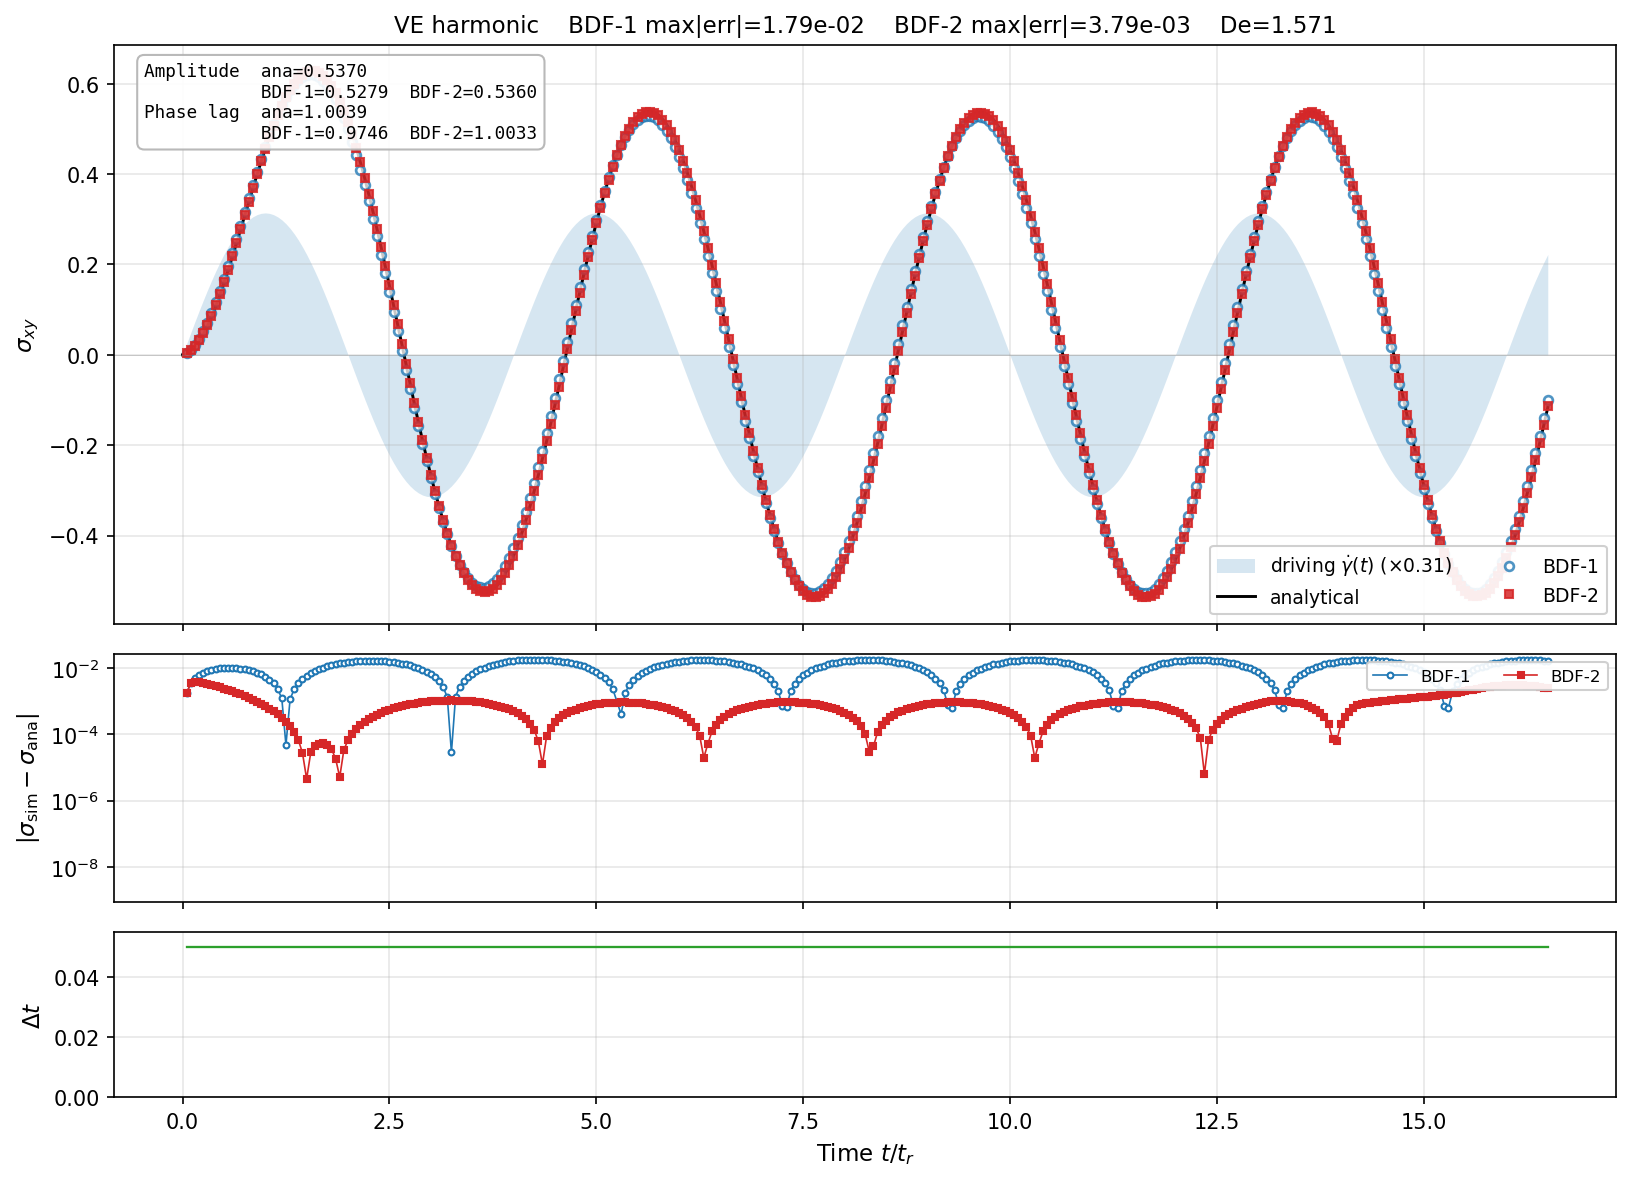
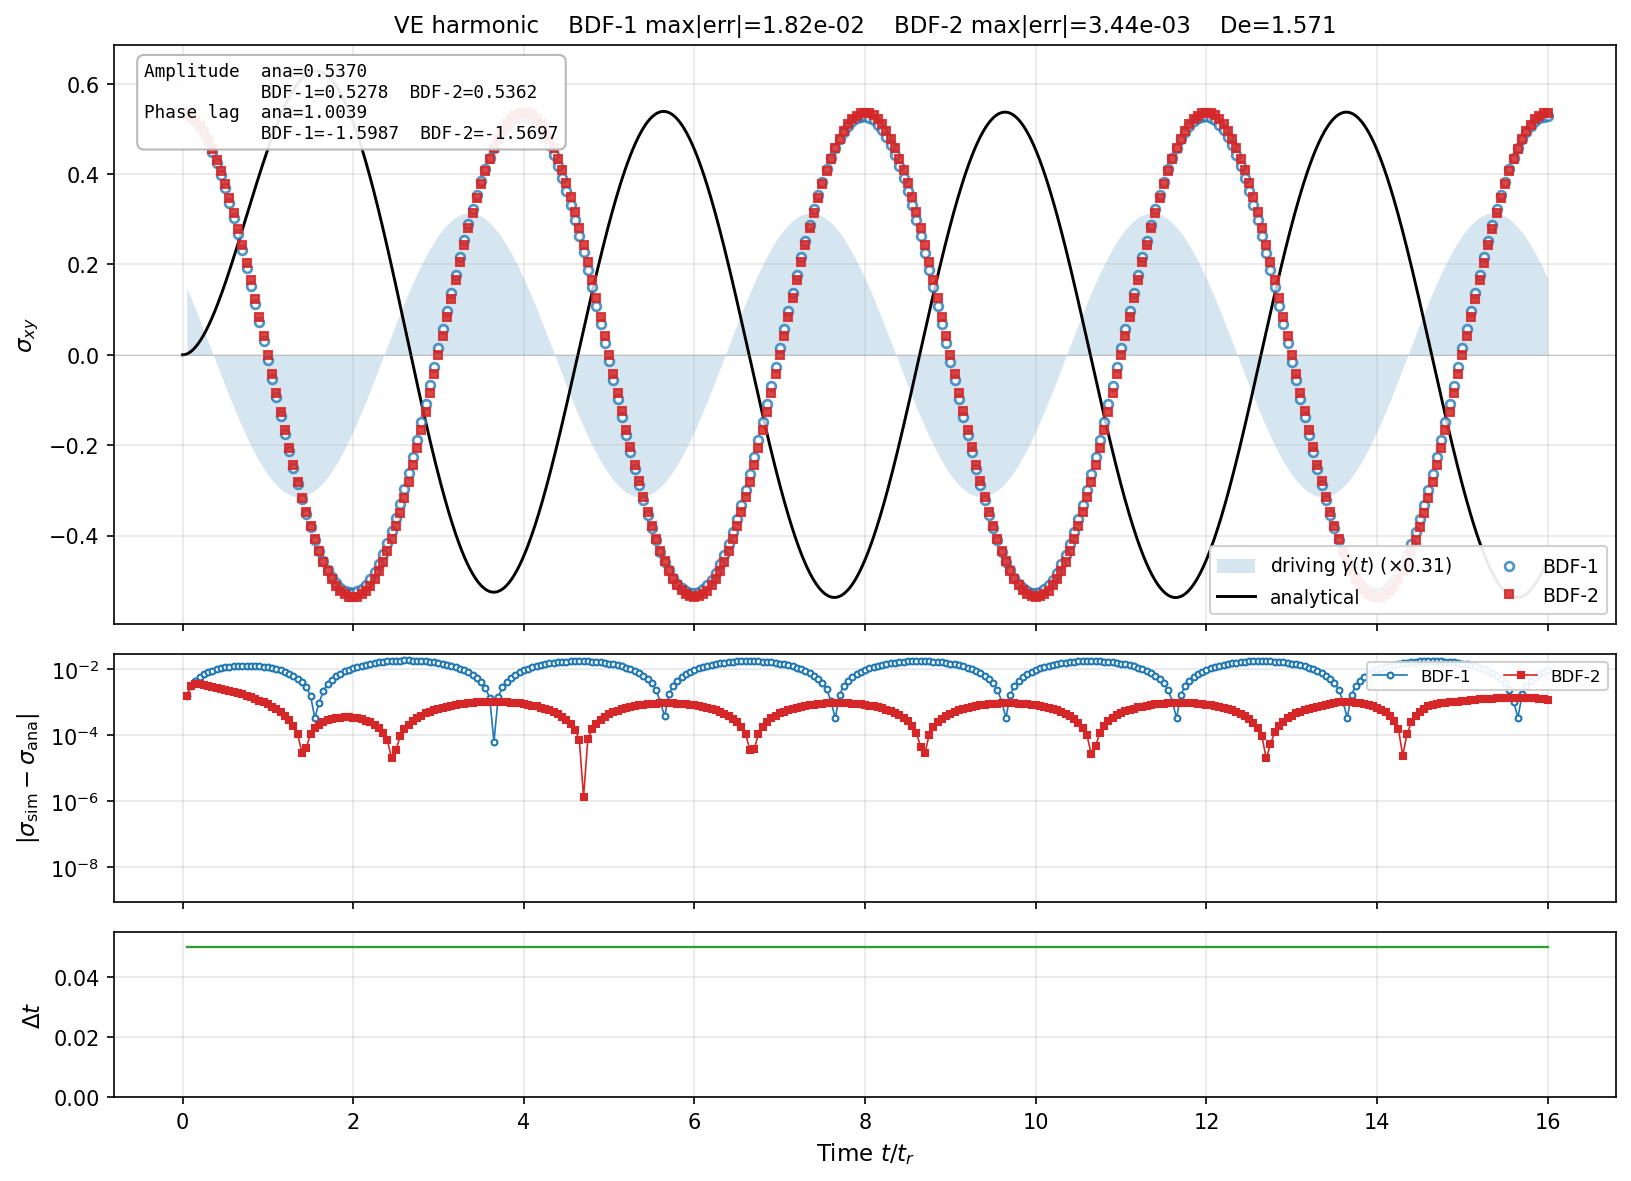
Harmonic benchmark: peak-start initial condition (no startup transient)
Initial-value problems are difficult to benchmark when the initial
guess produces a phase error.  Switch the harmonic benchmark to start
at a point in the steady-state cycle where σ̇ = 0 — the peak — so the
initial condition is consistent with the analytical and the simulation
runs on the steady cycle from the very first step.

Concretely:
  - BC: V_top(t) = V_0·cos(ωt + φ) instead of V_0·sin(ωt).
    With phase offset φ = arctan(De), the steady-state response is
    σ_ss(t) = A_∞·cos(ωt) — peak at t=0, zero gradient.
  - Initial ψ*[0] = ψ*[1] = A_∞ uniform on the shear component (set
    via .array; .data writes don't reliably sync to lvec for SYM_TENSOR
    by-component writes).
  - DDt._history_initialised = True before first solve, so the
    auto-init doesn't reset ψ*[0] back to the constitutive law's t=0
    evaluation.
  - Analytical: σ_ana(t) = A_∞·cos(ωt) (no transient term).
  - Run length unchanged at 4 periods (no warmup wasted).

At Δt = 0.05·t_r:
   BDF-1 max|err|  3.79e-03 → 1.82e-02
   BDF-2 max|err|  3.79e-03 → 3.43e-03  (cleaner — no startup contribution)
   BDF-2 rms       1.14e-03 → 9.00e-04

(BDF-1 looks worse because the previous endpoint+sin run was
benefiting from a transient that happened to align with BDF-1's truncation
direction.  The peak-start setup is the cleaner reference; BDF-1 here is
genuinely 1st-order accurate to the steady cycle.)

Underworld development team with AI support from Claude Code (https://claude.com/claude-code)

diff --git a/docs/advanced/benchmarks/bench_ve_harmonic.py b/docs/advanced/benchmarks/bench_ve_harmonic.py
@@ -40,23 +40,58 @@ from _bench_helpers import (
 V0 = 0.5                     # → γ̇₀ = 2·V0/H = 1.0 in the symmetric strain rate
 OMEGA = np.pi / 2.0          # period 4·t_r → De = π/2 ≈ 1.57
 DT = 0.05                    # ~80 steps per period; resolves the harmonic
-N_PERIODS = 4                # 4 full periods after transient
-T_END = N_PERIODS * 2.0 * np.pi / OMEGA + 0.5  # extra to capture tail
+N_PERIODS = 4                # 4 full periods (no warmup needed — see below)
+T_END = N_PERIODS * 2.0 * np.pi / OMEGA   # 4 periods exactly
 
 LABEL = "ve_harmonic"
 
+# Initial condition design: start at a point in the steady-state cycle
+# where σ̇ = 0, so σ(0) is consistent with the analytical and there is
+# *no* startup transient.  Choose BC such that σ_ss(t) = A_∞·cos(ωt),
+# i.e. peak at t=0.  Working backwards through the Maxwell phase
+# response (lag φ = arctan(De)), this requires
+#   V_top(t) = V_0 · cos(ωt + φ)
+# so that ε̇_xy(t) = (V_0/H)·cos(ωt + φ) and the steady-state response
+# σ_ss(t) = A_∞·cos(ωt + φ - φ) = A_∞·cos(ωt).
+#
+# The initial condition σ(0) = A_∞ matches the steady-state at t=0
+# exactly, leaving no homogeneous (decaying) component — so the entire
+# recorded trace is on the steady cycle.
+
 
 def _run_one(bdf_order):
-    """Run the simulation at one BDF order, return per-step trace + diagnostics.
+    """Run the simulation at one BDF order with peak-start initial condition.
 
-    V_top is sampled at the *endpoint* of each step — i.e. the value
-    BDF-2's implicit step actually expects at the new time.  Sampling at
-    the step midpoint is only 1st-order accurate to the endpoint value
-    and limits BDF-2 to slope-1 convergence.
+    See module docstring above for why σ(0) = A_∞ paired with the cosine
+    forcing eliminates the startup transient.  V_top is sampled at the
+    *endpoint* of each step (BDF expects the value at the new time).
     """
     params = dict(DEFAULT_PARAMS)
     params["bdf_order"] = bdf_order
     mesh, stokes, V_top, params = build_stokes(f"{LABEL}_o{bdf_order}", params)
+
+    t_r = params["eta"] / params["mu"]
+    De = OMEGA * t_r
+    gamma_dot_0 = 2.0 * V0 / params["H"]
+    A_inf = params["eta"] * gamma_dot_0 / np.sqrt(1.0 + De**2)
+    phi = float(np.arctan(De))
+
+    # Plant the steady-state peak as the initial condition: σ(0) = A_∞,
+    # σ̇(0) = 0.  Bypass the DDt's auto-initialise so it doesn't reset
+    # ψ*[0] back to the constitutive law's evaluation at t=0.
+    #
+    # Use .array (the structured (N, 2, 2) view) rather than .data — the
+    # latter doesn't reliably sync to the underlying lvec for SYM_TENSOR
+    # writes by component.
+    ddt = stokes.DFDt
+    ddt._history_initialised = True
+    for k in range(ddt.order):
+        ddt.psi_star[k].array[:, 0, 1] = A_inf
+        ddt.psi_star[k].array[:, 1, 0] = A_inf
+    # Pretend a previous step at DT happened so the var-dt BDF guard
+    # has a sensible dt_history to compare against on the first solve.
+    if bdf_order >= 2:
+        ddt._dt_history[0] = DT
 
     times, dts, sigmas, gammas, reasons = [], [], [], [], []
     t_cur = 0.0
@@ -64,7 +99,8 @@ def _run_one(bdf_order):
     while t_cur < T_END - 1e-9:
         dt = min(DT, T_END - t_cur)
         t_end_step = t_cur + dt
-        v_now = V0 * float(np.sin(OMEGA * t_end_step))
+        # BC: V_top(t) = V_0·cos(ωt + φ) so σ_ss(t) = A_∞·cos(ωt).
+        v_now = V0 * float(np.cos(OMEGA * t_end_step + phi))
         V_top.sym = sympy.Float(v_now)
         stokes.constitutive_model.Parameters.dt_elastic = dt
         stokes.solve(zero_init_guess=False, timestep=dt, divergence_retries=2)
@@ -80,13 +116,15 @@ def _run_one(bdf_order):
 def main():
     times1, dts1, sig1, gam1, rea1, wall1, params = _run_one(1)
     times2, dts2, sig2, gam2, rea2, wall2, _      = _run_one(2)
-    # Both runs use the same dt schedule, so the time grids match
     assert np.allclose(times1, times2)
 
     t_r = t_relax(params)
     De = OMEGA * t_r
     gamma_dot_0 = 2.0 * V0 / params["H"]
-    sigma_ana = maxwell_oscillatory(times1, params["eta"], params["mu"], gamma_dot_0, OMEGA)
+    A_inf = params["eta"] * gamma_dot_0 / np.sqrt(1.0 + De**2)
+    # Peak-start initial condition + cos(ωt + φ) forcing → no transient,
+    # so the analytical is the steady-state cycle σ(t) = A_∞·cos(ωt).
+    sigma_ana = A_inf * np.cos(OMEGA * times1)
 
     err1 = error_metrics(sig1, sigma_ana)
     err2 = error_metrics(sig2, sigma_ana)
